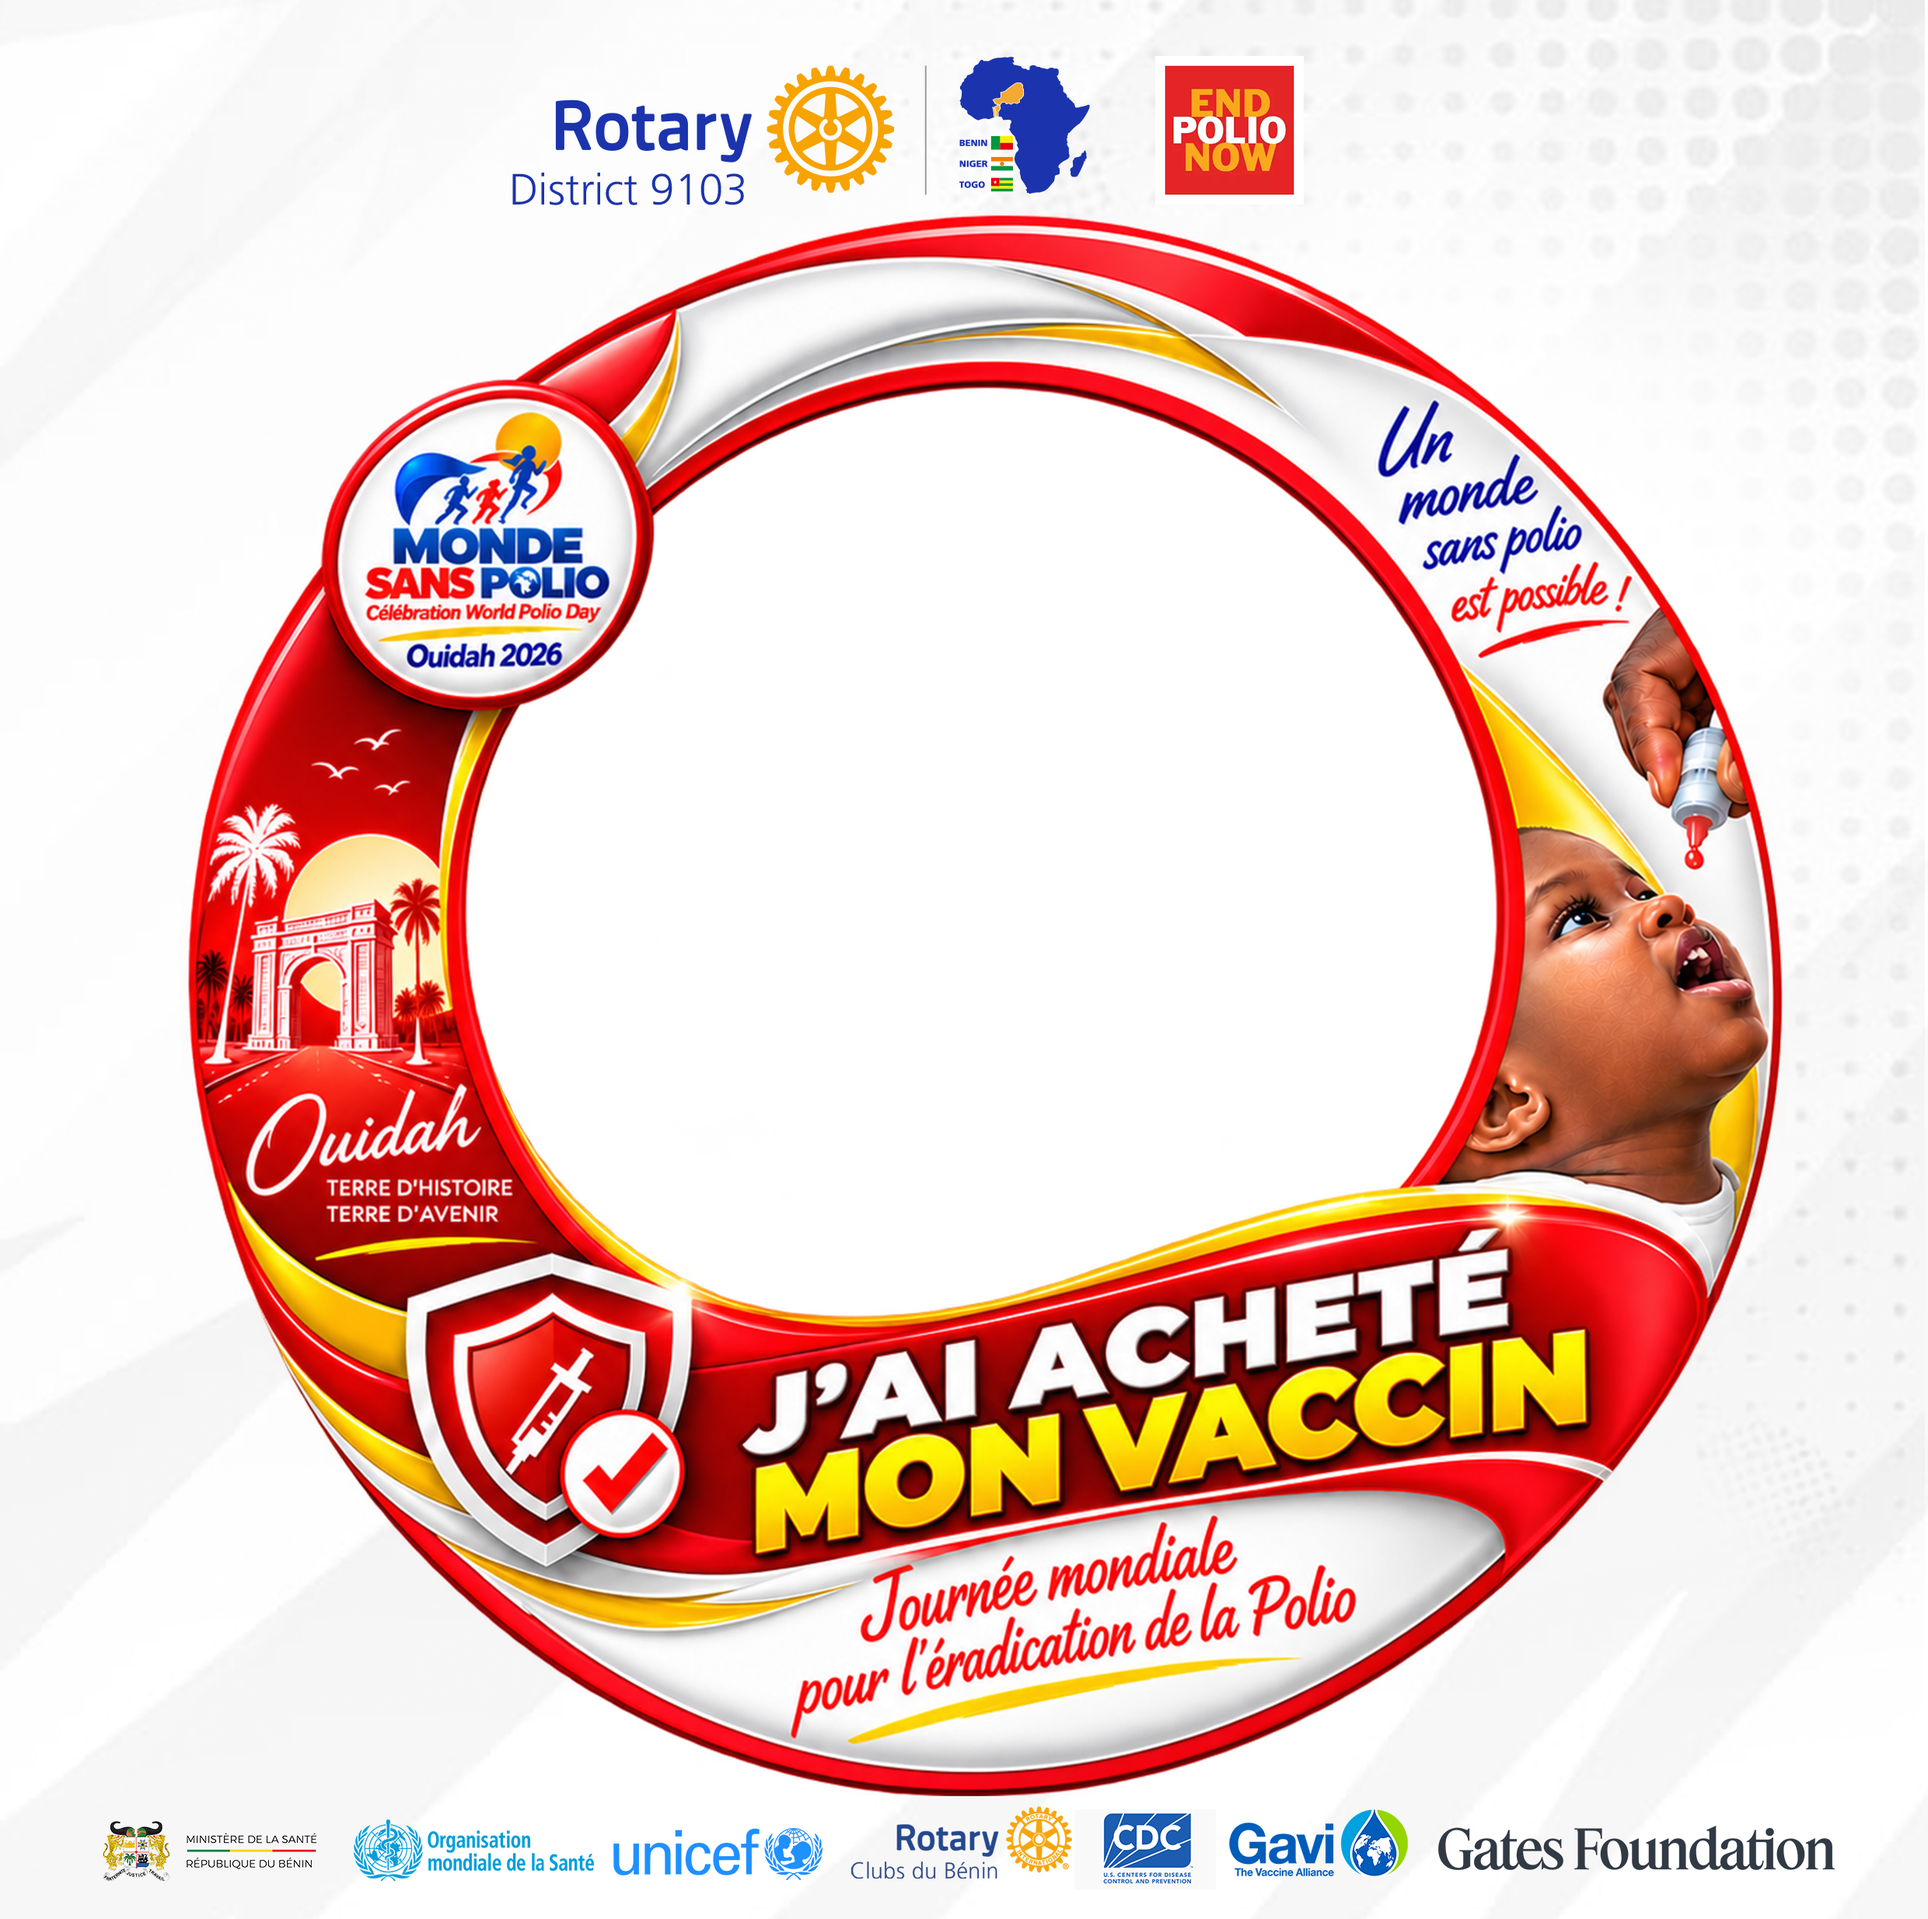
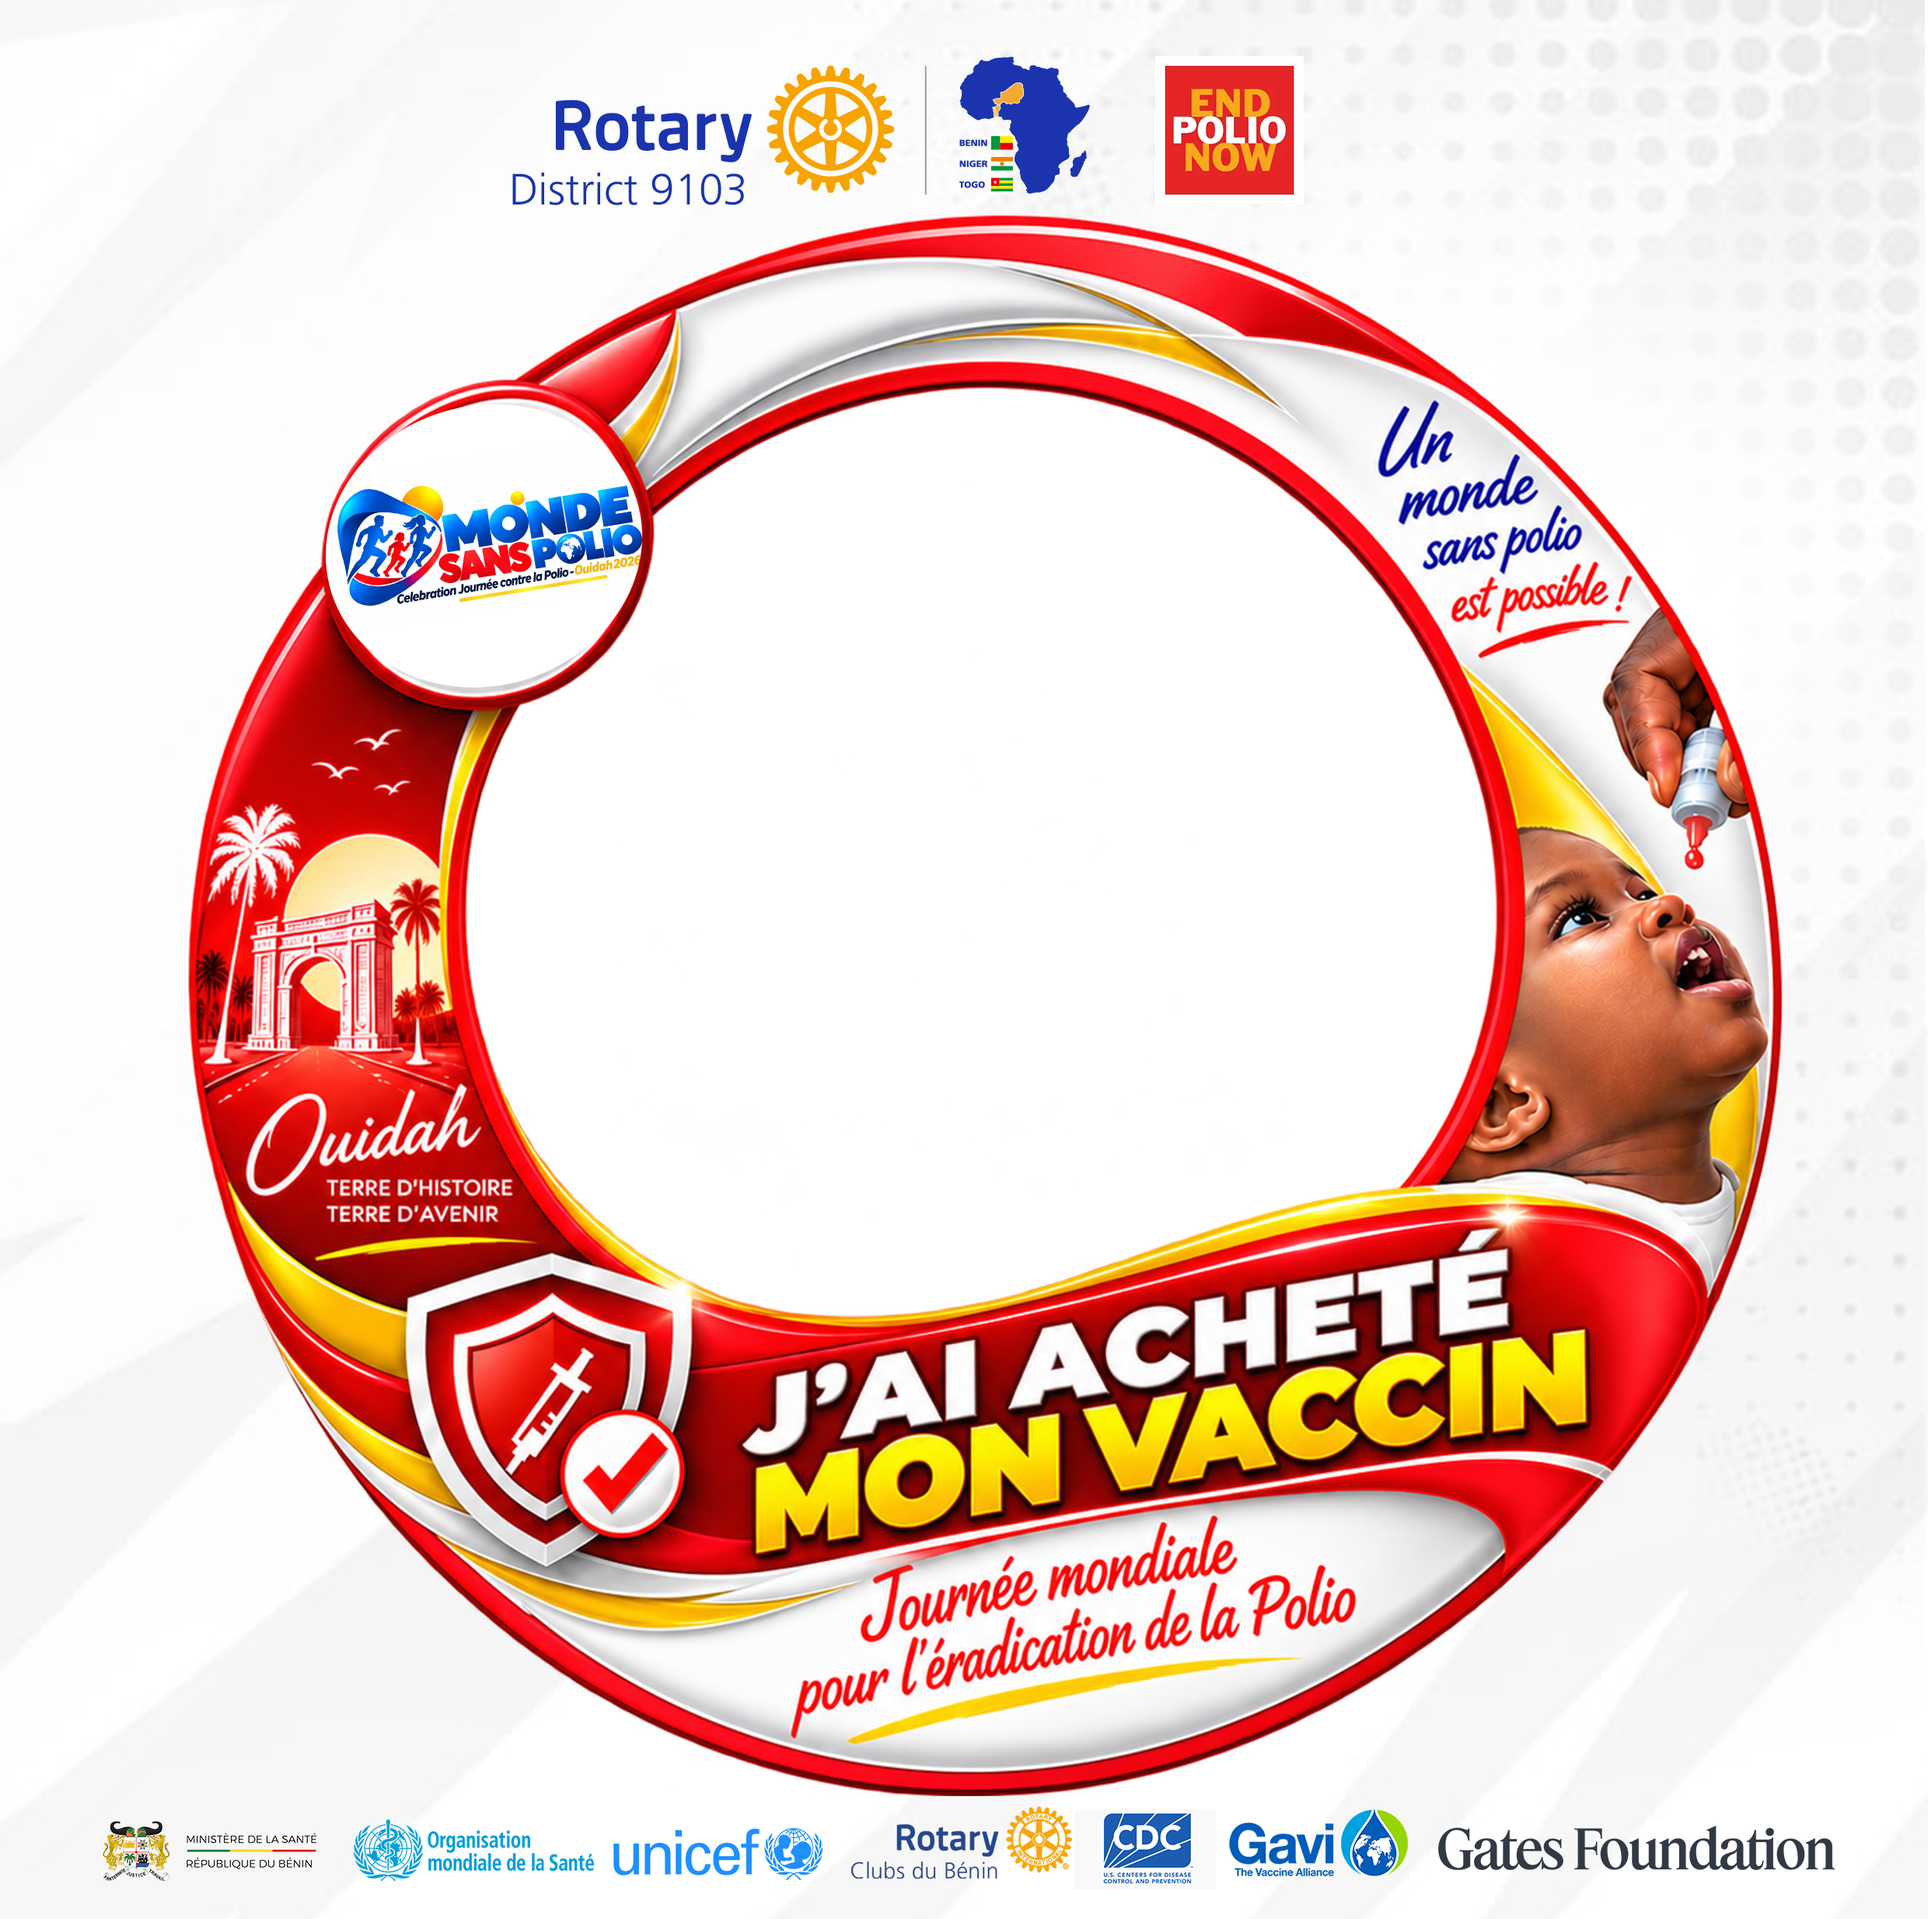
feat(polio): prise en compte du nouveau template de badge poliobadge26new

Changed region(s): [[0.1552, 0.2184, 0.3415, 0.3744]]

diff --git a/src/app/admin/page.tsx b/src/app/admin/page.tsx
@@ -1770,7 +1770,7 @@ function PolioStatsModal({ campaignId, onClose }: { campaignId: string, onClose:
             link.href = canvas.toDataURL('image/jpeg', 0.85);
             link.click();
         };
-        templateImg.src = '/images/poliobadge26new.png';
+        templateImg.src = '/images/poliobadge26new.png?v=2';
     };
 
     const generateAdminCertificate = async (p: any) => {

diff --git a/src/app/organizer/support-campaign/dashboard/page.tsx b/src/app/organizer/support-campaign/dashboard/page.tsx
@@ -356,7 +356,7 @@ function PolioStatsModal({ campaignId, onClose }: { campaignId: string, onClose:
             link.href = canvas.toDataURL('image/jpeg', 0.85);
             link.click();
         };
-        templateImg.src = '/images/poliobadge26new.png';
+        templateImg.src = '/images/poliobadge26new.png?v=2';
     };
 
     const generateAdminCertificate = async (p: any) => {

diff --git a/src/components/Support/OuidahPolioFlow.tsx b/src/components/Support/OuidahPolioFlow.tsx
@@ -498,7 +498,7 @@ export default function OuidahPolioFlow({ campaign }: Props) {
                 drawTemplateAndFinish();
             }
         };
-        templateImg.src = '/images/poliobadge26new.png';
+        templateImg.src = '/images/poliobadge26new.png?v=2';
     };
 
     const generateCertificate = async () => {
